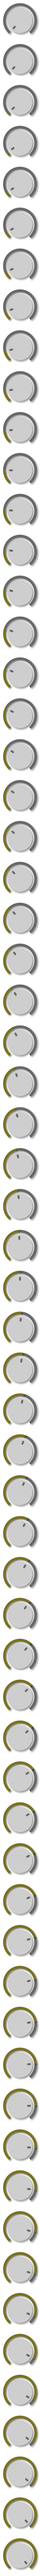
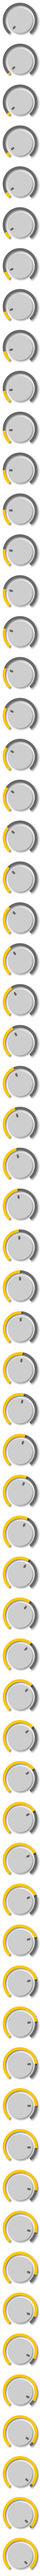
Changed color scheme

diff --git a/DComp.cpp b/DComp.cpp
@@ -43,18 +43,17 @@ enum ELayout
   
   kSliderCaptionOffset = 8,
   kSmallKnobCaptionOffset = 5,
-  kSmallKnobsY = 350,
-  kHoldX = 238,
+  kSmallKnobsY = 347,
+  kHoldX = 236,
   kRatioX = kHoldX + 68,
   kKneeX = kRatioX + 68,
   kSCKnobsX = 547,
-  kSCKnobY= 318,
+  kSCKnobY= 313,
   kSCKnob2Y = kSCKnobY + 57,
   kSCBypassX = 465,
   kSCBypassY = 282,
   kSCAudX = 581,
   kSCAudY = kSCBypassY + 1,
-  kFaderLength = 264,
   
   kLPCaptionX = 477,
   kLPCaptionY = 347,
@@ -124,7 +123,7 @@ DComp::DComp(IPlugInstanceInfo instanceInfo)
   GetParam(kSidechain)->InitBool("Sidechain", false);
   GetParam(kSCAudition)->InitBool("Audition Sidechain", false);
   
-  GetParam(kMode)->InitEnum("Detector Mode", 0, 1);
+  GetParam(kMode)->InitEnum("Mode", 0, 1);
   GetParam(kMode)->SetDisplayText(0, "Peak");
   GetParam(kMode)->SetDisplayText(1, "RMS");
   
@@ -186,7 +185,7 @@ DComp::DComp(IPlugInstanceInfo instanceInfo)
 
   //Gain reduction plot
   GRplot = new ILevelPlotControl(this, plotRECT, &grFillColor, &grLineColor, kPlotTimeScale);
-  GRplot->setLineWeight(3.);
+  GRplot->setLineWeight(2.5);
   GRplot->setReverseFill(true);
   GRplot->setFillEnable(false);
   GRplot->setResolution(ILevelPlotControl::kHighRes);
@@ -204,7 +203,7 @@ DComp::DComp(IPlugInstanceInfo instanceInfo)
   pGraphics->AttachControl(threshPlot);
   
   //Compressor ratio plot
-  compPlot = new ICompressorPlotControl(this, IRECT(plotRECT.L, plotRECT.T, plotRECT.L + plotRECT.H(), plotRECT.T + plotRECT.H()), &plotCompLineColor, &plotPreFillColor, &mComp);
+  compPlot = new ICompressorPlotControl(this, IRECT(plotRECT.L, plotRECT.T, plotRECT.L + plotRECT.H(), plotRECT.T + plotRECT.H()), &plotCompLineColor, &plotCompFillColor, &mComp);
   compPlot->calc();
   compPlot->setLineWeight(3.);
   plot->setAAquality(ICairoPlotControl::kNone);
@@ -266,7 +265,10 @@ DComp::DComp(IPlugInstanceInfo instanceInfo)
   pGraphics->AttachControl(new ITextControl(this, IRECT(kModeX - 50, kModeY+1, kModeX, kModeY+40), &popUpLabel, "Mode: "));
   
   //Mode selector popup
-  pGraphics->AttachControl(new IPopUpMenuControl(this, IRECT(kModeX, kModeY, kModeX + 100, kModeY + 25), COLOR_WHITE, COLOR_WHITE, plotPostFillColor, kMode));
+  pGraphics->AttachControl(new IPopUpMenuControl(this, IRECT(kModeX, kModeY, kModeX + 100, kModeY + 25), COLOR_WHITE, COLOR_WHITE, modeColor, kMode));
+  
+  //Version String
+  pGraphics->AttachControl(new ITextControl(this, IRECT(106, 29, 175, 37), &versionText, versionString));
   
   //Attach shadow
   pGraphics->AttachControl(mShadow);
@@ -376,6 +378,7 @@ void DComp::ProcessDoubleReplacing(double** inputs, double** outputs, int nFrame
     sampleDry2 = *in2;
     sampleFiltered1 = *in1;
     sampleFiltered2 = *in2;
+    
     
     
     //Filter sample for compressor envelope detector

diff --git a/DComp.h b/DComp.h
@@ -2,12 +2,7 @@
 #define __DCOMP__
 
 #include "IPlug_include_in_plug_hdr.h"
-//#include "EnvelopeFollower.h"
-//#include "ICairoControls.h"
-//#include "CParamSmooth.h"
 #include "IPopupMenuControl.h"
-//#include "IKnobMultiControlText.h"
-//#include "VAStateVariableFilter.h"
 
 class DComp : public IPlug
 {
@@ -20,6 +15,8 @@ public:
   void ProcessDoubleReplacing(double** inputs, double** outputs, int nFrames);
 
 private:
+  char* versionString = "v0.1.0";
+  
   double scaleValue(double inValue, double inMin, double inMax, double outMin, double outMax);
   
 
@@ -32,19 +29,28 @@ private:
   
   IColor plotBackgroundColor = IColor(206,206,206);
   IColor plotPreLineColor =  IColor(170, 151, 151, 151);
-  IColor plotPostLineColor =  IColor(180, 120, 120, 120);
-  IColor plotCompLineColor =  IColor(255, 150, 150, 150);
-  IColor plotPreFillColor =  IColor(90, 198, 198, 198);
-  IColor plotPostFillColor =  IColor(125, 255, 233, 30);
+  IColor plotPostLineColor =  IColor(123, 200, 200, 200);
+  IColor plotCompLineColor =  IColor(255, 180, 180, 180);
+  IColor plotCompFillColor =  IColor(90, 198, 198, 198);
+
+  IColor plotPreFillColor =  IColor(110, 198, 198, 198);
+ // IColor plotPostFillColor =  IColor(125, 255, 233, 30);
+  IColor plotPostFillColor =  IColor(150, 255, 196, 0);
+
   IColor yellow = IColor(255, 255, 233, 30);
   IColor grLineColor = IColor(180, 250, 125,90);
   IColor grFillColor = IColor(50, 250, 0,0);
-  IColor threshLineColor = IColor(180, 180, 180, 180);
+  IColor threshLineColor = IColor(180, 240, 240, 240);
+  
+  IColor modeColor = IColor(240, 255, 196, 0);
+
   
   IText caption = IText(14, &COLOR_WHITE, "Futura", IText::kStyleNormal, IText::kAlignCenter);
   IText cutoffCaption = IText(11, &COLOR_WHITE, "Futura", IText::kStyleNormal, IText::kAlignCenter);
   IText sliderCaption = IText(12, &COLOR_WHITE, "Futura", IText::kStyleNormal, IText::kAlignCenter);
   IText popUpLabel = IText(18, &COLOR_WHITE, "Futura", IText::kStyleNormal, IText::kAlignCenter);
+  IText versionText = IText(9, &threshLineColor, "Futura", IText::kStyleNormal, IText::kAlignNear);
+  
   double mGain, mThreshold, mAttack, mHold, mRelease, mRatio, mKnee, mMix, mCuttoffLP, mCuttoffHP;
   int mMode;
   bool mSidechainEnable, mSCAudition, mLPEnable, mHPEnable;
@@ -76,4 +82,3 @@ private:
 };
 
 #endif
-//#endif
